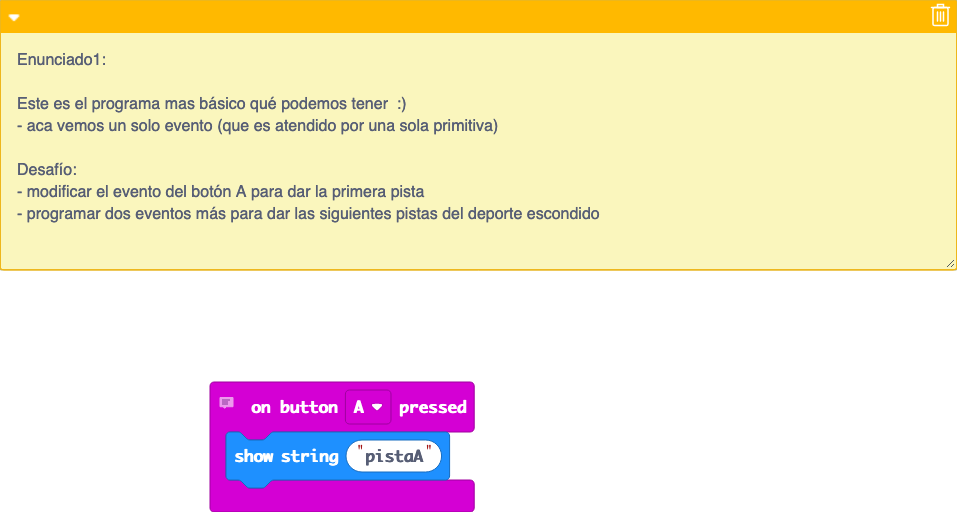
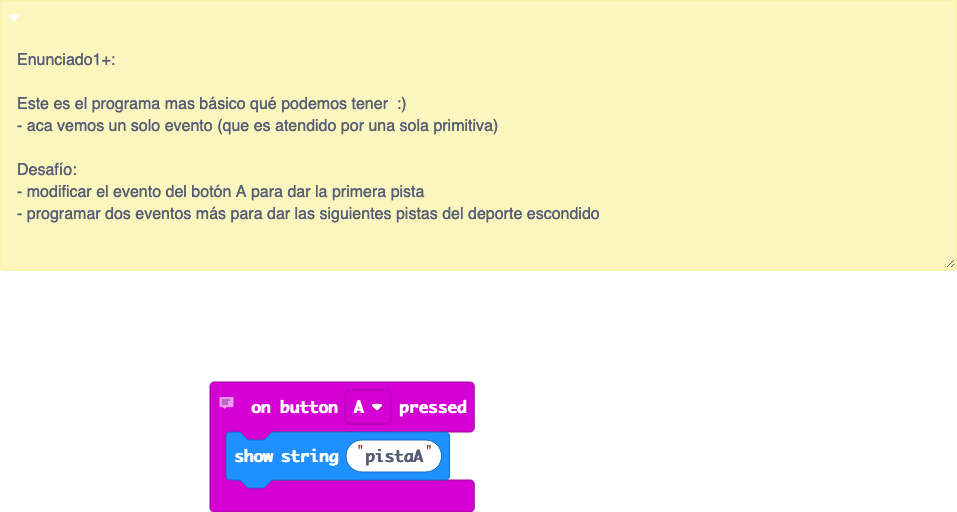
Update main.blocks, main.ts

Changed region(s): [[0.0, 0.0, 1.0, 0.0625], [0.0, 0.5, 1.0, 0.5312], [0.0909, 0.0938, 0.1212, 0.125]]

diff --git a/main.ts b/main.ts
@@ -1,5 +1,5 @@
 /**
- * Enunciado1:
+ * Enunciado1+:
  * 
  * Este es el programa mas básico qué podemos tener  :)
  * 
@@ -10,6 +10,12 @@
  * - modificar el evento del botón A para dar la primera pista
  * 
  * - programar dos eventos más para dar las siguientes pistas del deporte escondido
+ * 
+ * Desafío++:
+ * 
+ * - que el evento del botón A sea un icono
+ * 
+ * - que el evento del botón B además de la pista, toque un sonido
  */
 // Ver el comentario "Enunciado1"
 // 
